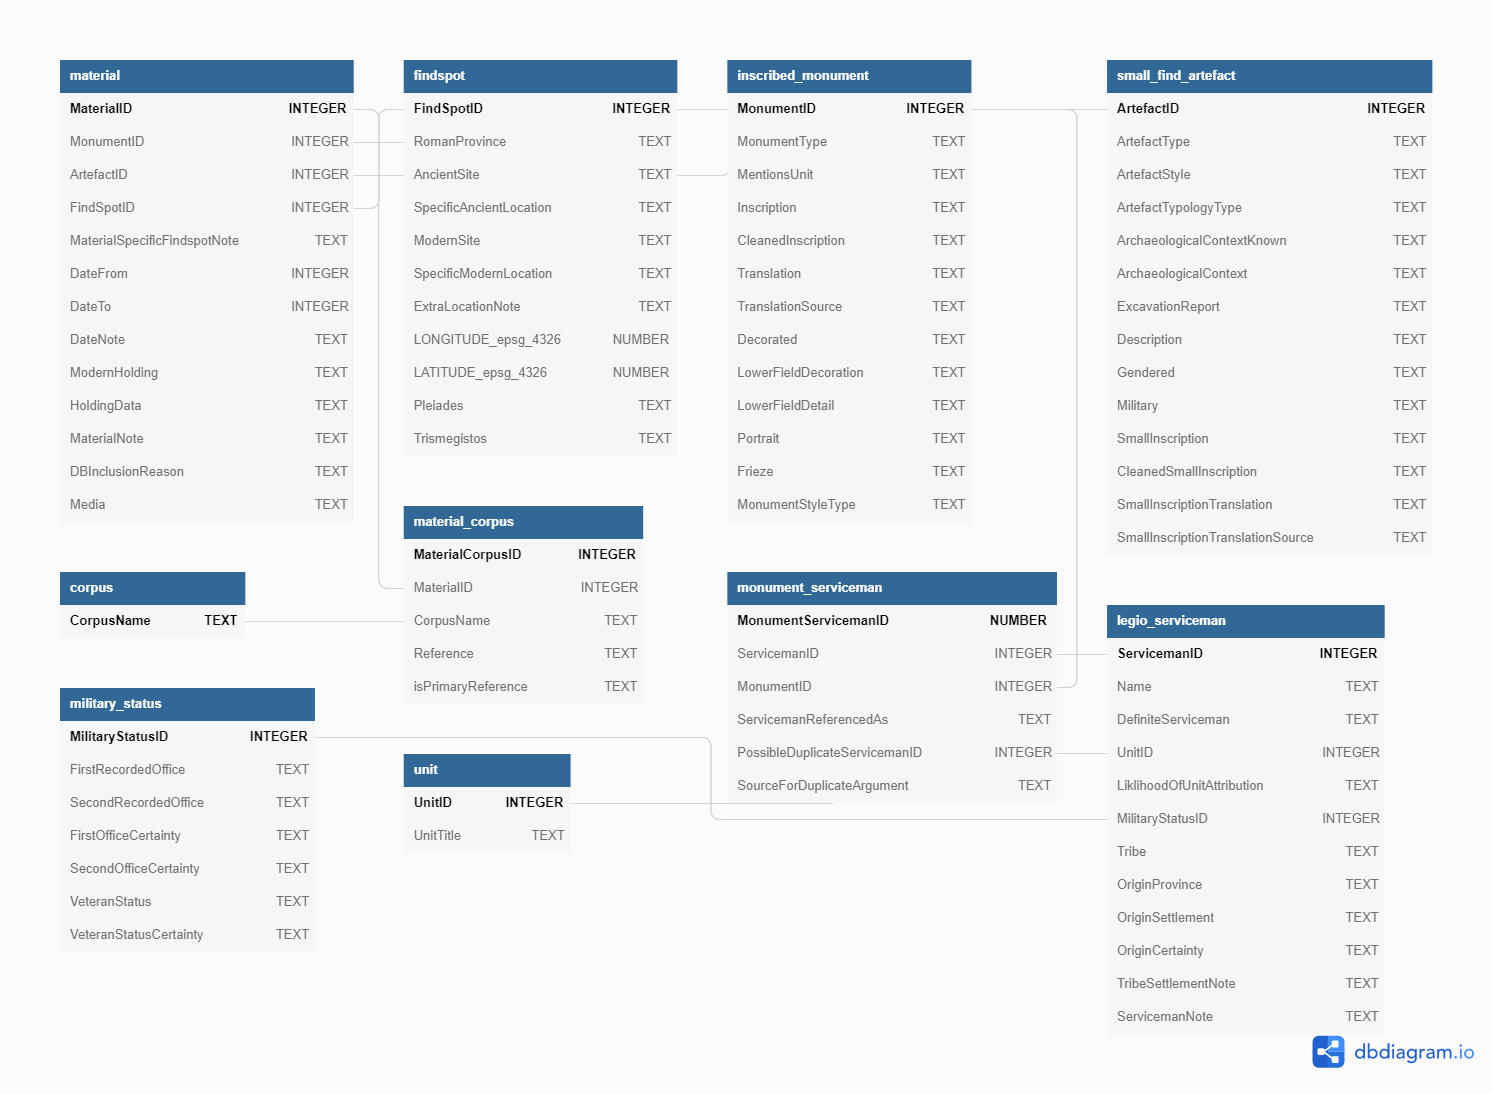
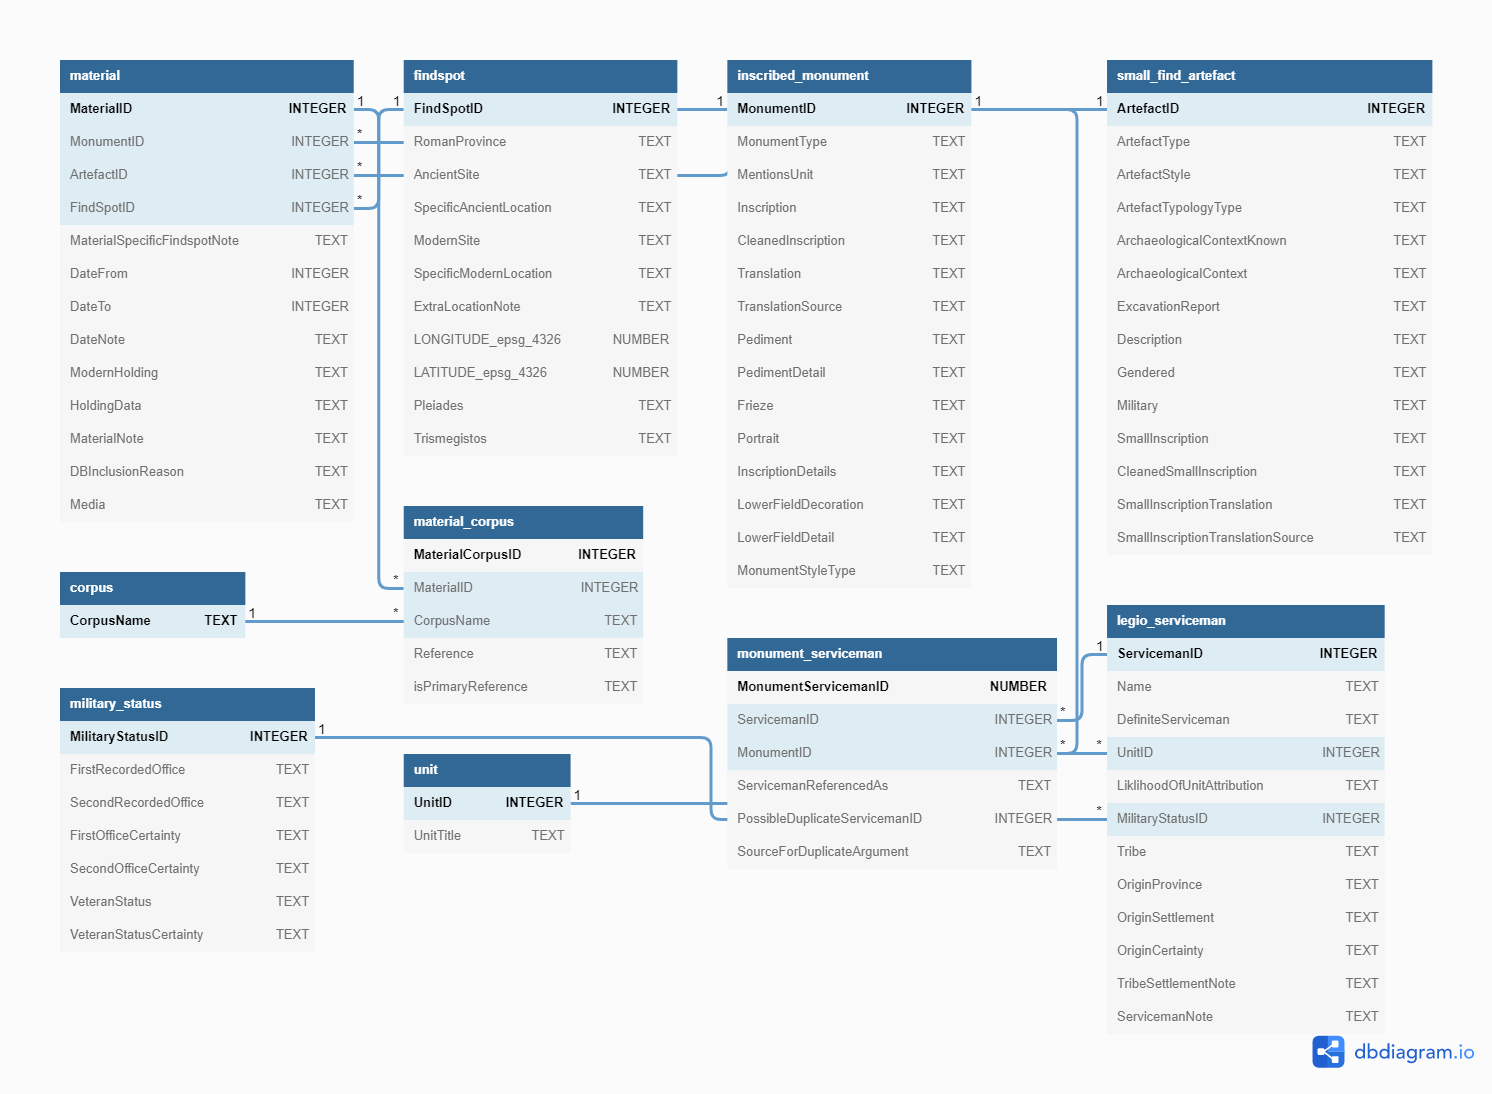
new columns in incribed_monument and schema images

diff --git a/README.md b/README.md
@@ -4,5 +4,5 @@ PhD database for epigraphic and archaeological data based. Developed from Master
 
 ## Current schema
 
-![screenshot of a database schema. there are 10 tables, some having only one row, others as many as 14. the tables are labelled material, findspot, inscribed monument, small find artefact, corpus, material corpus, monument serviceman, legio serviceman, military status and unit. blue lines link the primary and foreign keys (primary or secondary identifiers between each of the tables). each row is also classed as either text, number or integer](media/db_schema_dark.png)
+![screenshot of a database schema. there are 10 tables, some having only one row, others as many as 16. the tables are labelled material, findspot, inscribed monument, small find artefact, corpus, material corpus, monument serviceman, legio serviceman, military status and unit. blue lines link the primary and foreign keys (primary or secondary identifiers between each of the tables). each row is also classed as either text, number or integer](media/db_schema_dark.png)
 <figcaption> Figure 4. Screenshot of the database schema. Ewan Coopey: Copyright.</figcaption>
